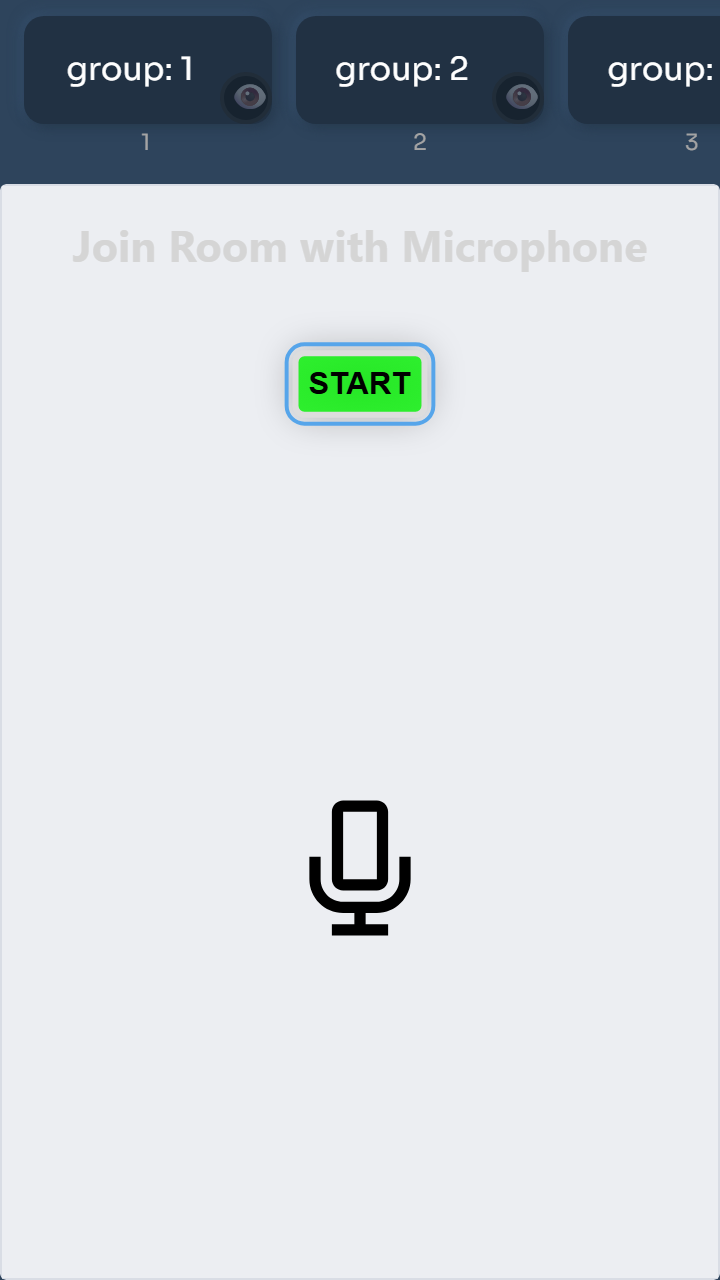
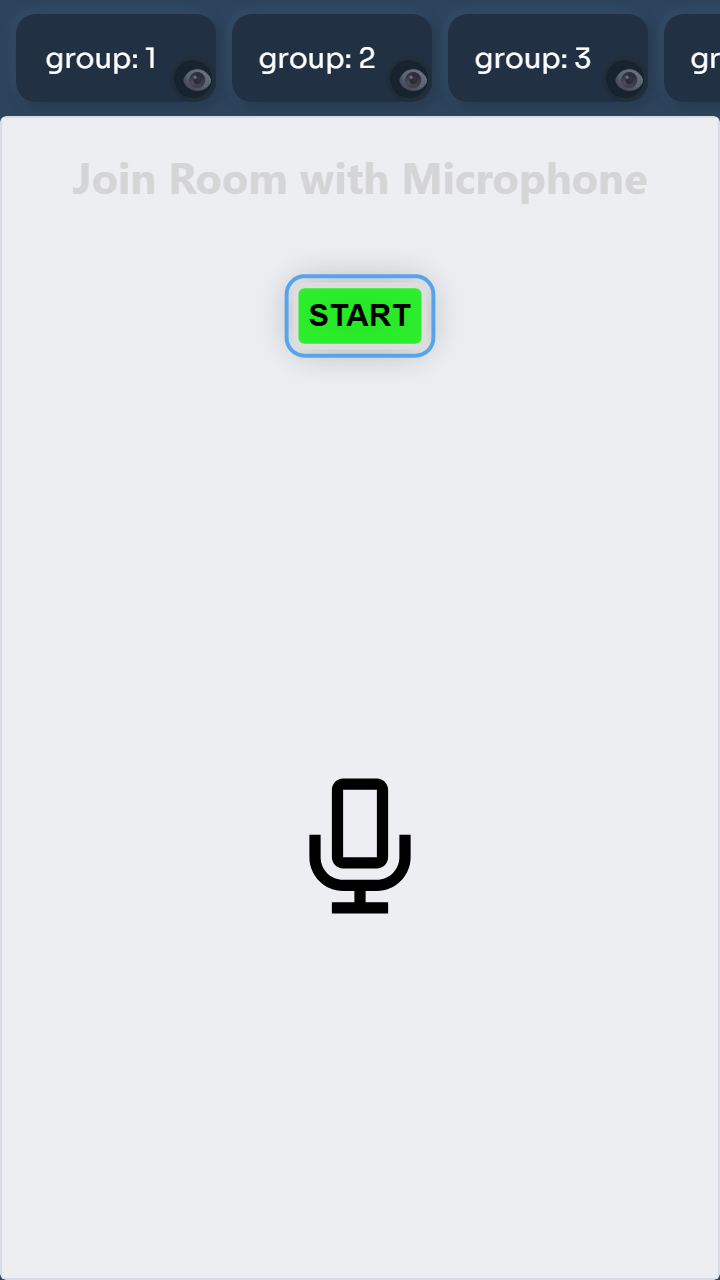
Tighten mobile comms layout

diff --git a/comms.html b/comms.html
@@ -906,9 +906,9 @@
 		flex: 0 0 auto;
 		gap: 0;
 		width: 100vw;
-		height: 92px;
-		min-height: 92px;
-		padding: 0 6px 6px 6px;
+		height: 64px;
+		min-height: 64px;
+		padding: 0 5px 5px 5px;
 		overflow-x: auto;
 		overflow-y: hidden;
 		-webkit-overflow-scrolling: touch;
@@ -918,18 +918,18 @@
 	body.mobile #containermenu .groupContainer {
 		flex: 0 0 auto;
 		max-width: none;
-		min-width: 136px;
+		min-width: 122px;
 	}
 
 	body.mobile #containermenu .groupContainer > .group {
 		display: flex;
 		align-items: center;
 		justify-content: center;
-		width: 124px;
+		width: 112px;
 		max-width: none;
-		height: 54px;
-		margin: 8px 6px 0 6px;
-		padding: 8px 28px 8px 10px;
+		height: 48px;
+		margin: 8px 5px 0 5px;
+		padding: 7px 26px 7px 9px;
 		transform: none;
 		line-height: 1.15;
 		overflow: hidden;
@@ -940,6 +940,10 @@
 		max-width: 100%;
 		overflow: hidden;
 		text-overflow: ellipsis;
+	}
+
+	body.mobile .hotkey {
+		display: none;
 	}
 
 	body.mobile .groupview {
@@ -1078,11 +1082,12 @@
 	body.mobile #chatModule {
 		left: 10px;
 		right: 10px;
-		bottom: calc(10px + env(safe-area-inset-bottom));
+		top: 72px;
+		bottom: auto;
 		width: auto;
 		max-width: none;
-		height: min(70vh, 480px);
-		height: min(70dvh, 480px);
+		height: calc(100vh - 82px);
+		height: calc(100dvh - 82px);
 		margin: 0;
 		padding: 10px;
 		box-sizing: border-box;
@@ -1115,7 +1120,62 @@
 		flex: 0 0 auto;
 		margin: 0;
 	}
-	
+
+	@media (max-width: 360px) {
+		body.mobile #containermenu {
+			height: 58px;
+			min-height: 58px;
+			padding: 0 4px 4px 4px;
+		}
+
+		body.mobile #containermenu .groupContainer {
+			min-width: 108px;
+		}
+
+		body.mobile #containermenu .groupContainer > .group {
+			width: 100px;
+			height: 44px;
+			margin: 7px 4px 0 4px;
+			padding: 6px 23px 6px 8px;
+			font-size: 14px;
+		}
+
+		body.mobile .groupview {
+			width: 23px;
+			height: 23px;
+		}
+
+		body.mobile #chatModule {
+			top: 64px;
+			height: calc(100vh - 74px);
+			height: calc(100dvh - 74px);
+		}
+	}
+
+	@media (max-height: 500px) {
+		body.mobile #containermenu {
+			height: 56px;
+			min-height: 56px;
+		}
+
+		body.mobile #containermenu .groupContainer {
+			min-width: 112px;
+		}
+
+		body.mobile #containermenu .groupContainer > .group {
+			width: 104px;
+			height: 42px;
+			margin-top: 6px;
+			font-size: 14px;
+		}
+
+	body.mobile #chatModule {
+		top: 62px;
+		height: calc(100vh - 72px);
+		height: calc(100dvh - 72px);
+	}
+}
+
 	</style>
 </head>
 <body>
@@ -1217,15 +1277,18 @@
 	}
 	
 	function toggleChat(){
-		document.getElementById("chatModule").classList.toggle("hidden");
-		document.getElementById("chatModuleButton").classList.toggle("hidden");
-		
-		if (document.getElementById("chatModule").classList.contains("hidden")){
-			document.documentElement.style.setProperty('--chat-width', "0px");
-			document.documentElement.style.setProperty('--chat-filler', "40px");
-			
-		} else {
-			document.documentElement.style.setProperty('--chat-width', "400px");
+	var chatModule = document.getElementById("chatModule");
+	var chatModuleButton = document.getElementById("chatModuleButton");
+	chatModule.classList.toggle("hidden");
+
+	if (chatModule.classList.contains("hidden")){
+		chatModuleButton.classList.remove("hidden");
+		document.documentElement.style.setProperty('--chat-width', "0px");
+		document.documentElement.style.setProperty('--chat-filler', "40px");
+
+	} else {
+		chatModuleButton.classList.add("hidden");
+		document.documentElement.style.setProperty('--chat-width', "400px");
 			document.documentElement.style.setProperty('--chat-filler', "0px");
 		}
 	}
@@ -1291,15 +1354,27 @@
 	if (screen.height && screen.width && (screen.height*screen.width<400000)){
 		mobile = true;
 	}
-	
-	if (mobile){
-		//toggleChat();
-		document.body.classList.add("mobile");
-		//getById("chatModule").classList.add("hidden");
+
+	function isCompactScreen(){
+		return (window.innerWidth && window.innerWidth <= 760) || (window.innerHeight && window.innerHeight <= 500);
 	}
-	
-	
-	var password = false;
+
+	function useMobileLayout(){
+		return mobile || isCompactScreen();
+	}
+
+	function updateResponsiveLayout(){
+		if (useMobileLayout()){
+			document.body.classList.add("mobile");
+		} else {
+			document.body.classList.remove("mobile");
+		}
+	}
+
+updateResponsiveLayout();
+window.addEventListener("resize", updateResponsiveLayout);
+
+var password = false;
 	if (urlParams.has('password') || urlParams.has('pass') || urlParams.has('pw') || urlParams.has('p')) {
 		password = urlParams.get('password') || urlParams.get('pass') || urlParams.get('pw') || urlParams.get('p');
 	}
@@ -1758,9 +1833,12 @@
 		streamID = "&push="+streamID;
 	}
 	
-	var label = "&label";
-	if (urlParams.has("label") || urlParams.has("l")){
-		label += "=" + (urlParams.get("label") || urlParams.get("l") || "");
+	var label = "";
+	if (urlParams.has("l") && !urlParams.has("label")){
+		label = "&label";
+		if (urlParams.get("l")){
+			label += "=" + encodeURIComponent(urlParams.get("l"));
+		}
 	}
 	
 	savedSession = initialgroups; 
@@ -1982,7 +2060,7 @@
 			roomname = generateString(10);
 		}
 		
-		if (mobile){
+		if (useMobileLayout()){
 			additional2 += "&ad=1&chatbutton=1";
 		} else {
 			additional2 += "&chatbutton=0";